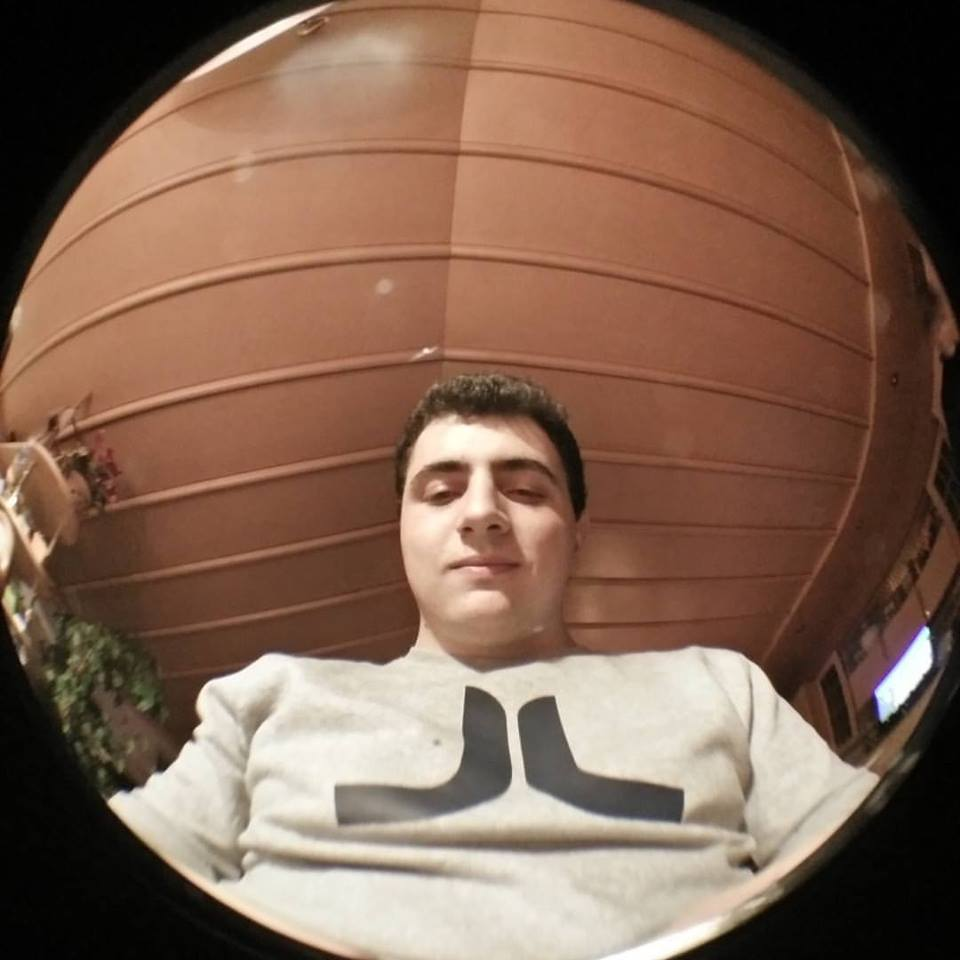
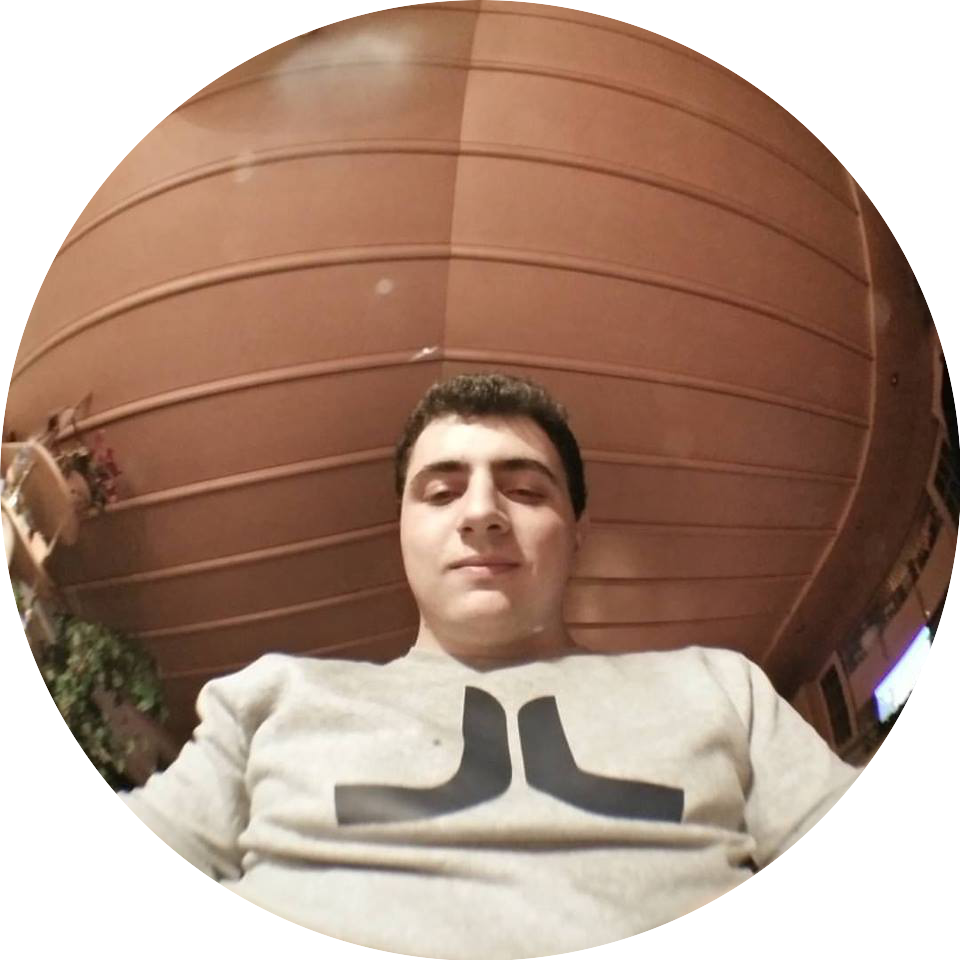
new layout

diff --git a/assets/js/instafeed.min.js b/assets/js/instafeed.min.js
@@ -1,0 +1,2 @@
+// Generated by CoffeeScript 1.9.3
+(function(){var e;e=function(){function e(e,t){var n,r;this.options={target:"instafeed",get:"popular",resolution:"thumbnail",sortBy:"none",links:!0,mock:!1,useHttp:!1};if(typeof e=="object")for(n in e)r=e[n],this.options[n]=r;this.context=t!=null?t:this,this.unique=this._genKey()}return e.prototype.hasNext=function(){return typeof this.context.nextUrl=="string"&&this.context.nextUrl.length>0},e.prototype.next=function(){return this.hasNext()?this.run(this.context.nextUrl):!1},e.prototype.run=function(t){var n,r,i;if(typeof this.options.clientId!="string"&&typeof this.options.accessToken!="string")throw new Error("Missing clientId or accessToken.");if(typeof this.options.accessToken!="string"&&typeof this.options.clientId!="string")throw new Error("Missing clientId or accessToken.");return this.options.before!=null&&typeof this.options.before=="function"&&this.options.before.call(this),typeof document!="undefined"&&document!==null&&(i=document.createElement("script"),i.id="instafeed-fetcher",i.src=t||this._buildUrl(),n=document.getElementsByTagName("head"),n[0].appendChild(i),r="instafeedCache"+this.unique,window[r]=new e(this.options,this),window[r].unique=this.unique),!0},e.prototype.parse=function(e){var t,n,r,i,s,o,u,a,f,l,c,h,p,d,v,m,g,y,b,w,E,S,x,T,N,C,k,L,A,O,M,_,D;if(typeof e!="object"){if(this.options.error!=null&&typeof this.options.error=="function")return this.options.error.call(this,"Invalid JSON data"),!1;throw new Error("Invalid JSON response")}if(e.meta.code!==200){if(this.options.error!=null&&typeof this.options.error=="function")return this.options.error.call(this,e.meta.error_message),!1;throw new Error("Error from Instagram: "+e.meta.error_message)}if(e.data.length===0){if(this.options.error!=null&&typeof this.options.error=="function")return this.options.error.call(this,"No images were returned from Instagram"),!1;throw new Error("No images were returned from Instagram")}this.options.success!=null&&typeof this.options.success=="function"&&this.options.success.call(this,e),this.context.nextUrl="",e.pagination!=null&&(this.context.nextUrl=e.pagination.next_url);if(this.options.sortBy!=="none"){this.options.sortBy==="random"?M=["","random"]:M=this.options.sortBy.split("-"),O=M[0]==="least"?!0:!1;switch(M[1]){case"random":e.data.sort(function(){return.5-Math.random()});break;case"recent":e.data=this._sortBy(e.data,"created_time",O);break;case"liked":e.data=this._sortBy(e.data,"likes.count",O);break;case"commented":e.data=this._sortBy(e.data,"comments.count",O);break;default:throw new Error("Invalid option for sortBy: '"+this.options.sortBy+"'.")}}if(typeof document!="undefined"&&document!==null&&this.options.mock===!1){m=e.data,A=parseInt(this.options.limit,10),this.options.limit!=null&&m.length>A&&(m=m.slice(0,A)),u=document.createDocumentFragment(),this.options.filter!=null&&typeof this.options.filter=="function"&&(m=this._filter(m,this.options.filter));if(this.options.template!=null&&typeof this.options.template=="string"){f="",d="",w="",D=document.createElement("div");for(c=0,N=m.length;c<N;c++){h=m[c],p=h.images[this.options.resolution];if(typeof p!="object")throw o="No image found for resolution: "+this.options.resolution+".",new Error(o);E=p.width,y=p.height,b="square",E>y&&(b="landscape"),E<y&&(b="portrait"),v=p.url,l=window.location.protocol.indexOf("http")>=0,l&&!this.options.useHttp&&(v=v.replace(/https?:\/\//,"//")),d=this._makeTemplate(this.options.template,{model:h,id:h.id,link:h.link,type:h.type,image:v,width:E,height:y,orientation:b,caption:this._getObjectProperty(h,"caption.text"),likes:h.likes.count,comments:h.comments.count,location:this._getObjectProperty(h,"location.name")}),f+=d}D.innerHTML=f,i=[],r=0,n=D.childNodes.length;while(r<n)i.push(D.childNodes[r]),r+=1;for(x=0,C=i.length;x<C;x++)L=i[x],u.appendChild(L)}else for(T=0,k=m.length;T<k;T++){h=m[T],g=document.createElement("img"),p=h.images[this.options.resolution];if(typeof p!="object")throw o="No image found for resolution: "+this.options.resolution+".",new Error(o);v=p.url,l=window.location.protocol.indexOf("http")>=0,l&&!this.options.useHttp&&(v=v.replace(/https?:\/\//,"//")),g.src=v,this.options.links===!0?(t=document.createElement("a"),t.href=h.link,t.appendChild(g),u.appendChild(t)):u.appendChild(g)}_=this.options.target,typeof _=="string"&&(_=document.getElementById(_));if(_==null)throw o='No element with id="'+this.options.target+'" on page.',new Error(o);_.appendChild(u),a=document.getElementsByTagName("head")[0],a.removeChild(document.getElementById("instafeed-fetcher")),S="instafeedCache"+this.unique,window[S]=void 0;try{delete window[S]}catch(P){s=P}}return this.options.after!=null&&typeof this.options.after=="function"&&this.options.after.call(this),!0},e.prototype._buildUrl=function(){var e,t,n;e="https://api.instagram.com/v1";switch(this.options.get){case"popular":t="media/popular";break;case"tagged":if(!this.options.tagName)throw new Error("No tag name specified. Use the 'tagName' option.");t="tags/"+this.options.tagName+"/media/recent";break;case"location":if(!this.options.locationId)throw new Error("No location specified. Use the 'locationId' option.");t="locations/"+this.options.locationId+"/media/recent";break;case"user":if(!this.options.userId)throw new Error("No user specified. Use the 'userId' option.");t="users/"+this.options.userId+"/media/recent";break;default:throw new Error("Invalid option for get: '"+this.options.get+"'.")}return n=e+"/"+t,this.options.accessToken!=null?n+="?access_token="+this.options.accessToken:n+="?client_id="+this.options.clientId,this.options.limit!=null&&(n+="&count="+this.options.limit),n+="&callback=instafeedCache"+this.unique+".parse",n},e.prototype._genKey=function(){var e;return e=function(){return((1+Math.random())*65536|0).toString(16).substring(1)},""+e()+e()+e()+e()},e.prototype._makeTemplate=function(e,t){var n,r,i,s,o;r=/(?:\{{2})([\w\[\]\.]+)(?:\}{2})/,n=e;while(r.test(n))s=n.match(r)[1],o=(i=this._getObjectProperty(t,s))!=null?i:"",n=n.replace(r,function(){return""+o});return n},e.prototype._getObjectProperty=function(e,t){var n,r;t=t.replace(/\[(\w+)\]/g,".$1"),r=t.split(".");while(r.length){n=r.shift();if(!(e!=null&&n in e))return null;e=e[n]}return e},e.prototype._sortBy=function(e,t,n){var r;return r=function(e,r){var i,s;return i=this._getObjectProperty(e,t),s=this._getObjectProperty(r,t),n?i>s?1:-1:i<s?1:-1},e.sort(r.bind(this)),e},e.prototype._filter=function(e,t){var n,r,i,s,o;n=[],r=function(e){if(t(e))return n.push(e)};for(i=0,o=e.length;i<o;i++)s=e[i],r(s);return n},e}(),function(e,t){return typeof define=="function"&&define.amd?define([],t):typeof module=="object"&&module.exports?module.exports=t():e.Instafeed=t()}(this,function(){return e})}).call(this);

diff --git a/_layouts/default.html b/_layouts/default.html
@@ -11,7 +11,7 @@
     <meta name="MobileOptimized" content="320" />
     <meta name="viewport" content="width=device-width, initial-scale=1.0" />
 
-    <link rel="stylesheet" type="text/css" href="//fonts.googleapis.com/css?family=Merriweather:300,700,700italic,300italic|Open+Sans:700,400" />
+    <link href='https://fonts.googleapis.com/css?family=PT+Sans:400,700' rel='stylesheet' type='text/css'>
     <link rel="stylesheet" type="text/css" href="/assets/css/colors.min.css" />
     <link rel="stylesheet" type="text/css" href="/assets/css/main.css" />
   </head>
@@ -19,18 +19,23 @@
     <header class="ovh">
       <div class="content">
         <div class="ovh">
-          <a href="/" class="go-home btn fl">«</a>
-          <a href="/about" class="btn">
-            <img id="avatar" src="/assets/images/avatar.png"/>
-          </a>
           <div class="nav-links tac">
-            <a href="/posts/">/posts/</a>
-            <a href="/thoughts/">/thoughts/</a>
-            <a href="/daily-activity-log/" target="_blank">/daily-activity-log/</a>
+            <h1>
+              <a href="/">@cf</a>
+            </h1>
+            <div>
+              <a href="/posts/">/posts/</a>
+              <a href="/thoughts/">/thoughts/</a>
+              <a href="/about/">/about/</a>
+              <a href="/daily-activity-log/" target="_blank">/daily-activity-log/</a>
+            </div>
+            <div>
+              <a href="https://twitter.com/christian_fei" target="_blank">/twitter</a>
+              <a href="https://github.com/christian-fei" target="_blank">/github</a>
+              <a href="https://www.instagram.com/christianfei/" target="_blank">/instagram</a>
+              <a href="https://www.goodreads.com/user/show/38117692-christian-fei" target="_blank">/goodreads</a>
+            </div>
           </div>
-        </div>
-        <div class="fl">
-          <p id="fucking-slogan"></p>
         </div>
       </div>
     </header>
@@ -38,6 +43,10 @@
     <main>
       {{ content }}
     </main>
+
+    <div class="fl">
+      <p id="fucking-slogan"></p>
+    </div>
 
     <script type="text/javascript" src="/assets/js/echo.js"></script>
     <script type="text/javascript">
@@ -60,19 +69,16 @@
     </script>
     <script type="text/javascript">
       var fuckingSlogans = [
-        "this is my fucking blog",
-        "u offended, little shit?",
-        "go fuck yourself",
-        "fucking #?=+",
-        "wtf r u doin",
-        "refreshing like an asshole",
-        "you must be fun at bars",
-        "oh please tell me more about you",
-        "you can find me on twitter @fuckoff",
-        "you little shit",
+        "this is my fucking blog.",
+        "hi.",
+        "go fuck yourself.",
+        "wtf r u doin.",
+        "you must be fun at bars.",
+        "oh please tell me more about you.",
+        "you can find me on twitter @christian_fei, fucker.",
       ]
       var fuckingSloganIndex = Math.floor(Math.random()*fuckingSlogans.length)
-      document.getElementById('fucking-slogan').innerText = '"'+fuckingSlogans[fuckingSloganIndex]+'", ~cf'
+      document.getElementById('fucking-slogan').innerText = fuckingSlogans[fuckingSloganIndex]
     </script>
   </body>
 </html>

diff --git a/assets/css/main.css b/assets/css/main.css
@@ -1,10 +1,47 @@
+html {font-size: 1em;}
+
+body {
+  font-family: 'PT Sans', 'Ubuntu', sans-serif;
+  font-size: 16px;
+  font-weight: 400;
+  line-height: 1.45;
+  color: #333;
+}
+
+p {margin-bottom: 1.3em;}
+
+h1, h2, h3, h4 {
+  margin: 1.414em 0 0.5em;
+  font-weight: bold;
+  line-height: 1.2;
+}
+
+h1 {
+  margin-top: 0;
+  font-size: 3.998em;
+}
+
+h2 {font-size: 2.827em;}
+
+h3 {font-size: 1.999em;}
+
+h4 {font-size: 1.414em;}
+
+small, .font_small {font-size: 0.707em;}
+
 a {
-  color: inherit;
   text-decoration: underline !important;
+  font-weight: bold;
+  color: #257C92;
+  color: black;
+}
+
+.nav-links a {
+  font-weight: normal;
 }
 
 .content {
-  max-width: 500px;
+  max-width: 700px;
   margin: 0 auto;
 }
 
@@ -20,19 +57,10 @@ header {
   margin-bottom: 300px;
 }
 
-.post .title {
-  font-weight: bold;
-  display: block;
-}
-
 main img {
   display: block;
   max-width: 100%;
-}
-
-h1, h2, h3, h4, h5, h6 {
-  font-size: 1em;
-  font-weight: bold;
+  margin: auto;
 }
 
 .go-home {
@@ -47,12 +75,6 @@ h1, h2, h3, h4, h5, h6 {
   float: left;
 }
 
-#avatar {
-  display: block;
-  width: 66px;
-  border-radius: 50%;
-}
-
 #fucking-slogan {
   margin: 0;
   margin-top: 1.3em;
@@ -63,15 +85,11 @@ h1, h2, h3, h4, h5, h6 {
   opacity: 1;
 }
 
-.btn {
-  display: inline-block;
-  padding: 0.5em 1em;
-}
 .tac {
   text-align: center;
 }
 
-.nav-links {
-  margin-top: 2em;
-  margin-bottom: 2em;
+#avatar-ss {
+  width: 150px;
+  border-radius: 50%;
 }

diff --git a/index.html b/index.html
@@ -1,3 +1,24 @@
 ---
 layout: default
 ---
+
+<div class="content">
+  <h1 class="tac">hey, sup</h1>
+  <img src="assets/images/ss/1.jpg" id="avatar-ss">
+</div>
+
+<script type="text/javascript">
+  var avatarSS = document.getElementById('avatar-ss')
+  var hovering = false
+  avatarSS.addEventListener('mouseover', function(){ hovering = true })
+  avatarSS.addEventListener('mouseout', function(){ hovering = false })
+  var imagesPath = 'assets/images/ss/'
+  var imagesExt = '.jpg'
+  var images = ['1','2','3','4','6','8']
+  var currentImageIndex = 0
+  setInterval(function(){
+    if( hovering ) { return }
+    avatarSS.setAttribute('src', imagesPath + images[currentImageIndex%(images.length-1)] + imagesExt)
+    currentImageIndex++
+  }, 1000/60)
+</script>

diff --git a/thoughts.html b/thoughts.html
@@ -8,7 +8,9 @@ permalink: /thoughts/
   {%if post.category == 'thoughts'%}
   <article class="post">
     <div class="content">
-      <a class="title" href="{{ post.url }}">{{ post.title }}</a>
+      <h1 class="title">
+        <a href="{{ post.url }}">{{ post.title }}</a>
+      </h1>
       <time datetime="{{ post.date | date:"%Y-%m-%d" }}">
         {{ post.date | date_to_string }}
       </time>

diff --git a/posts.html b/posts.html
@@ -8,7 +8,9 @@ permalink: /posts/
   {%if post.category == 'posts'%}
   <article class="post">
     <div class="content">
-      <a class="title" href="{{ post.url }}">{{ post.title }}</a>
+      <h1 class="title">
+        <a href="{{ post.url }}">{{ post.title }}</a>
+      </h1>
       <time datetime="{{ post.date | date:"%Y-%m-%d" }}">
         {{ post.date | date_to_string }}
       </time>

diff --git a/_layouts/post.html b/_layouts/post.html
@@ -3,7 +3,7 @@ layout: default
 ---
 
 <div class="content">
-  <div class="title">{{ page.title }}</div>
+  <h1 class="title">{{ page.title }}</h1>
   <time datetime="{{ page.date | date:"%Y-%m-%d" }}">
     {{ page.date | date_to_string }}
   </time>
